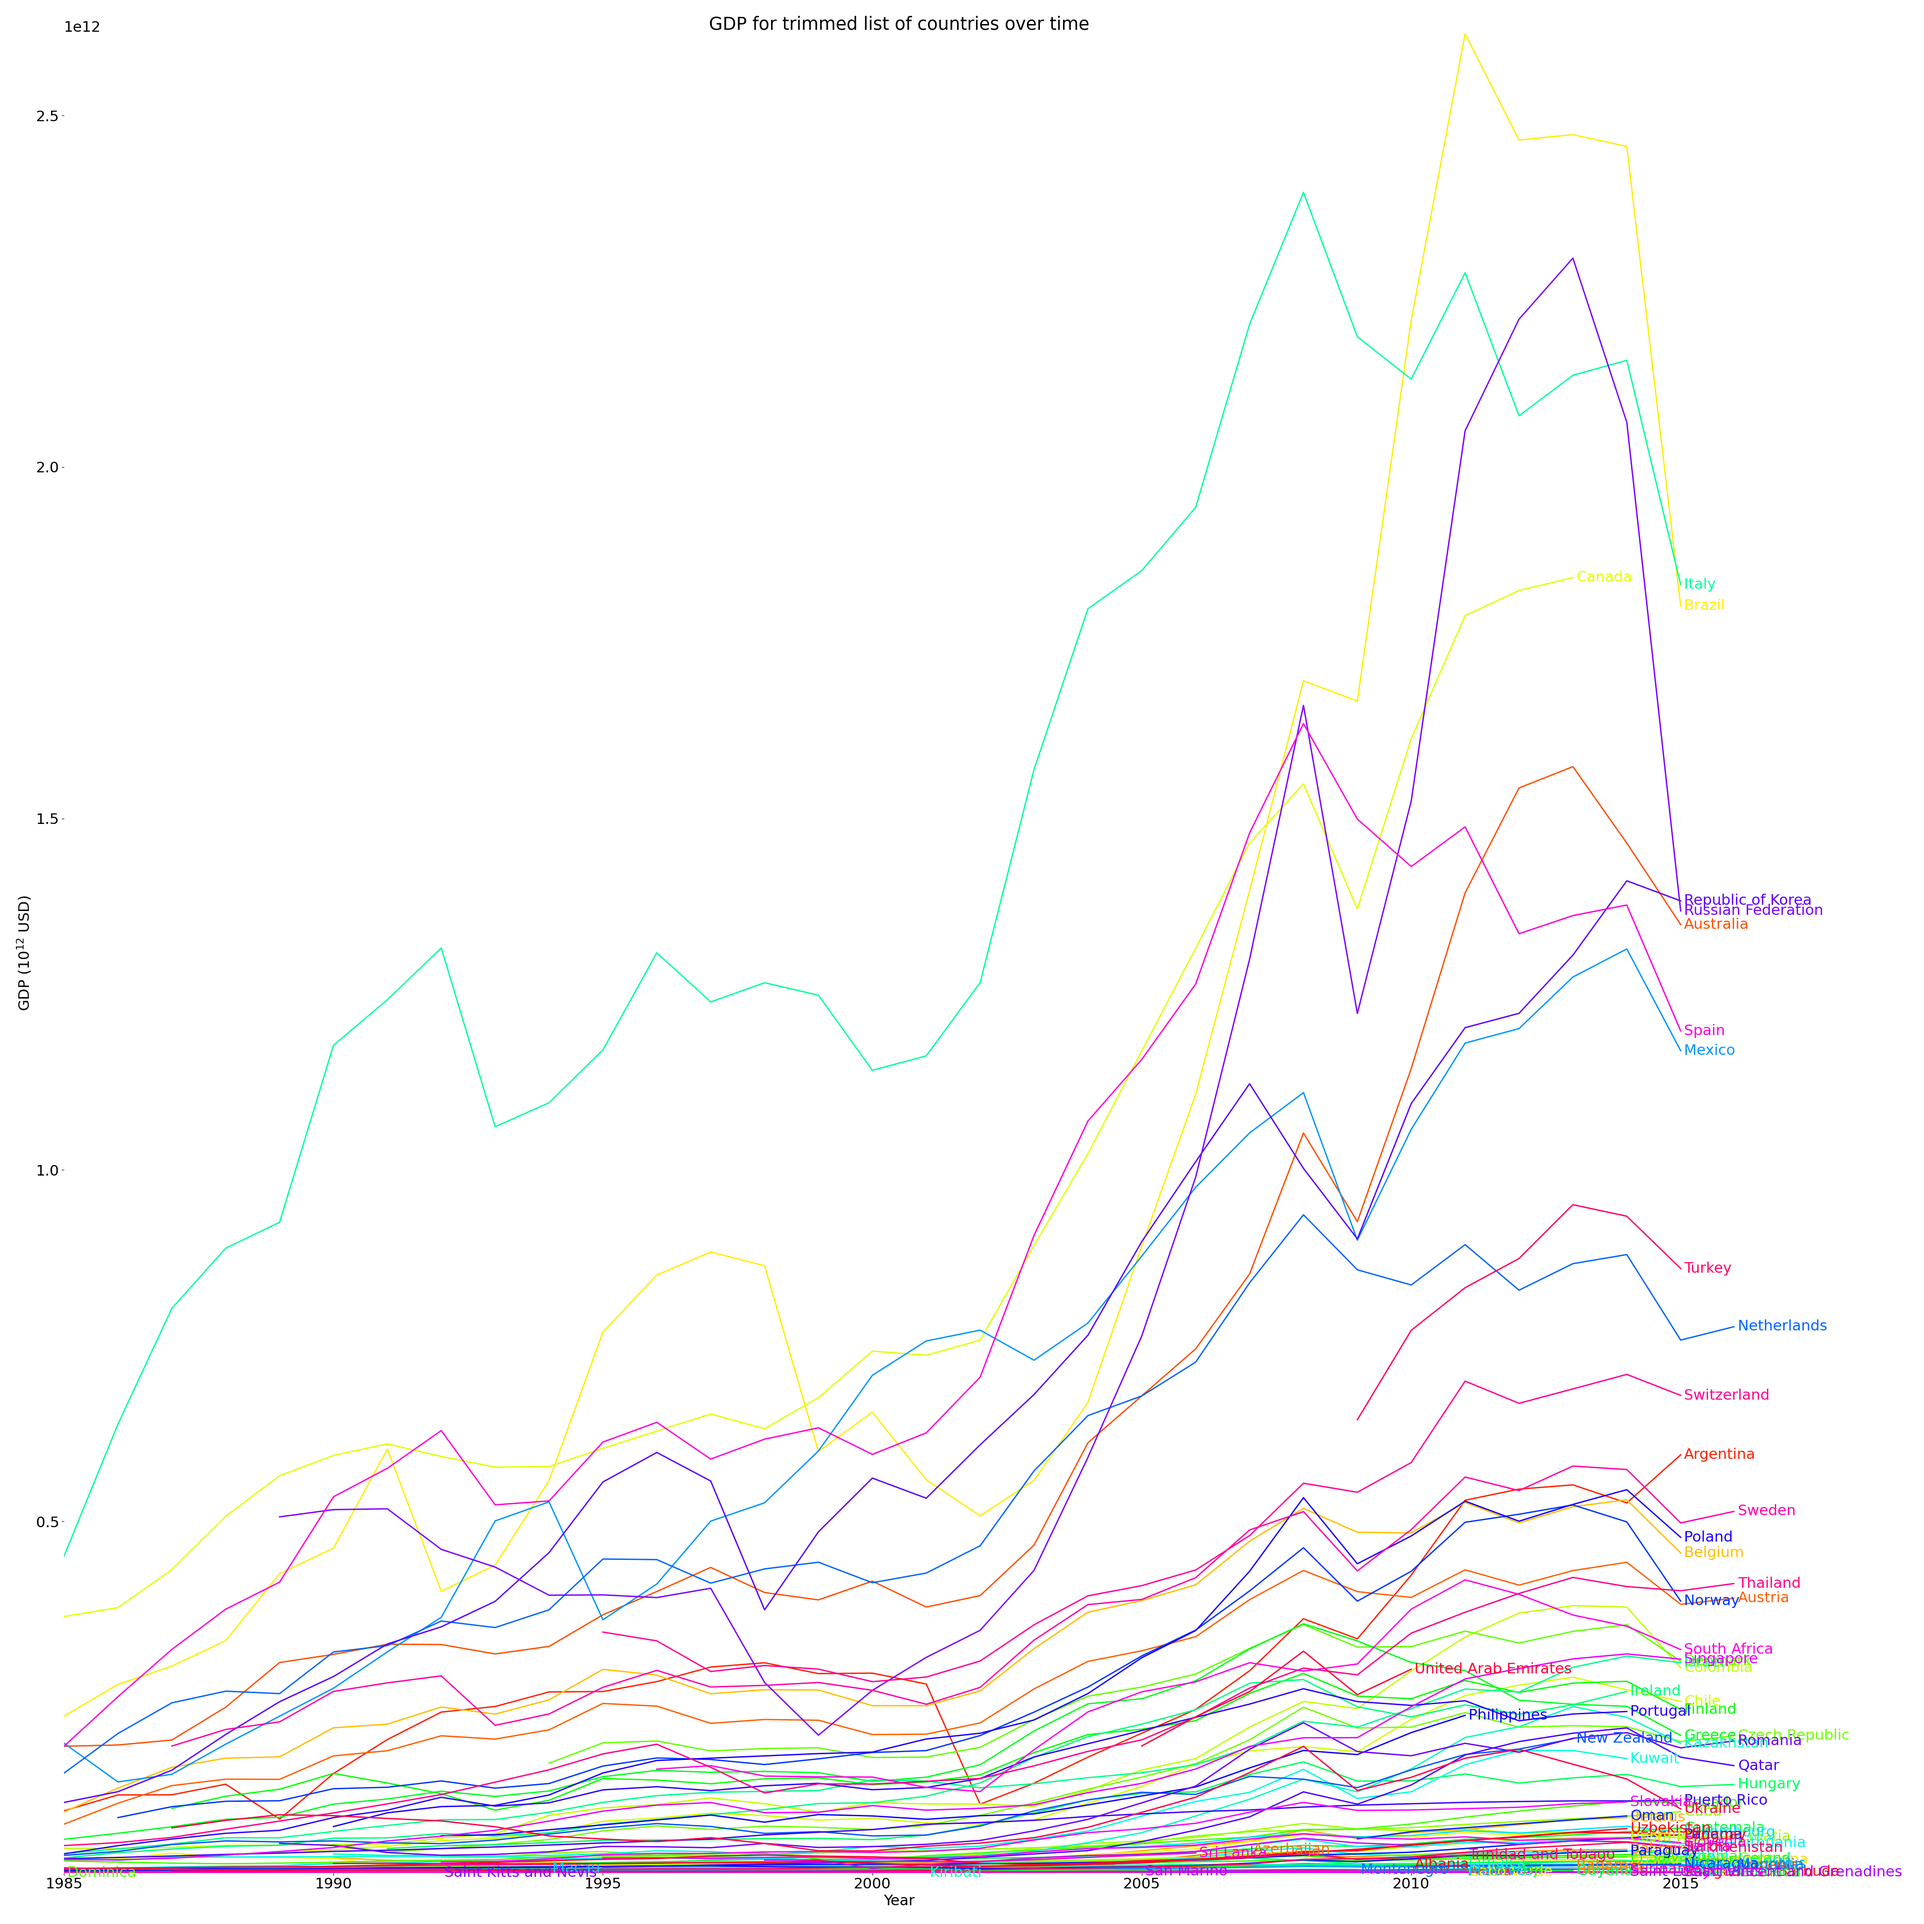
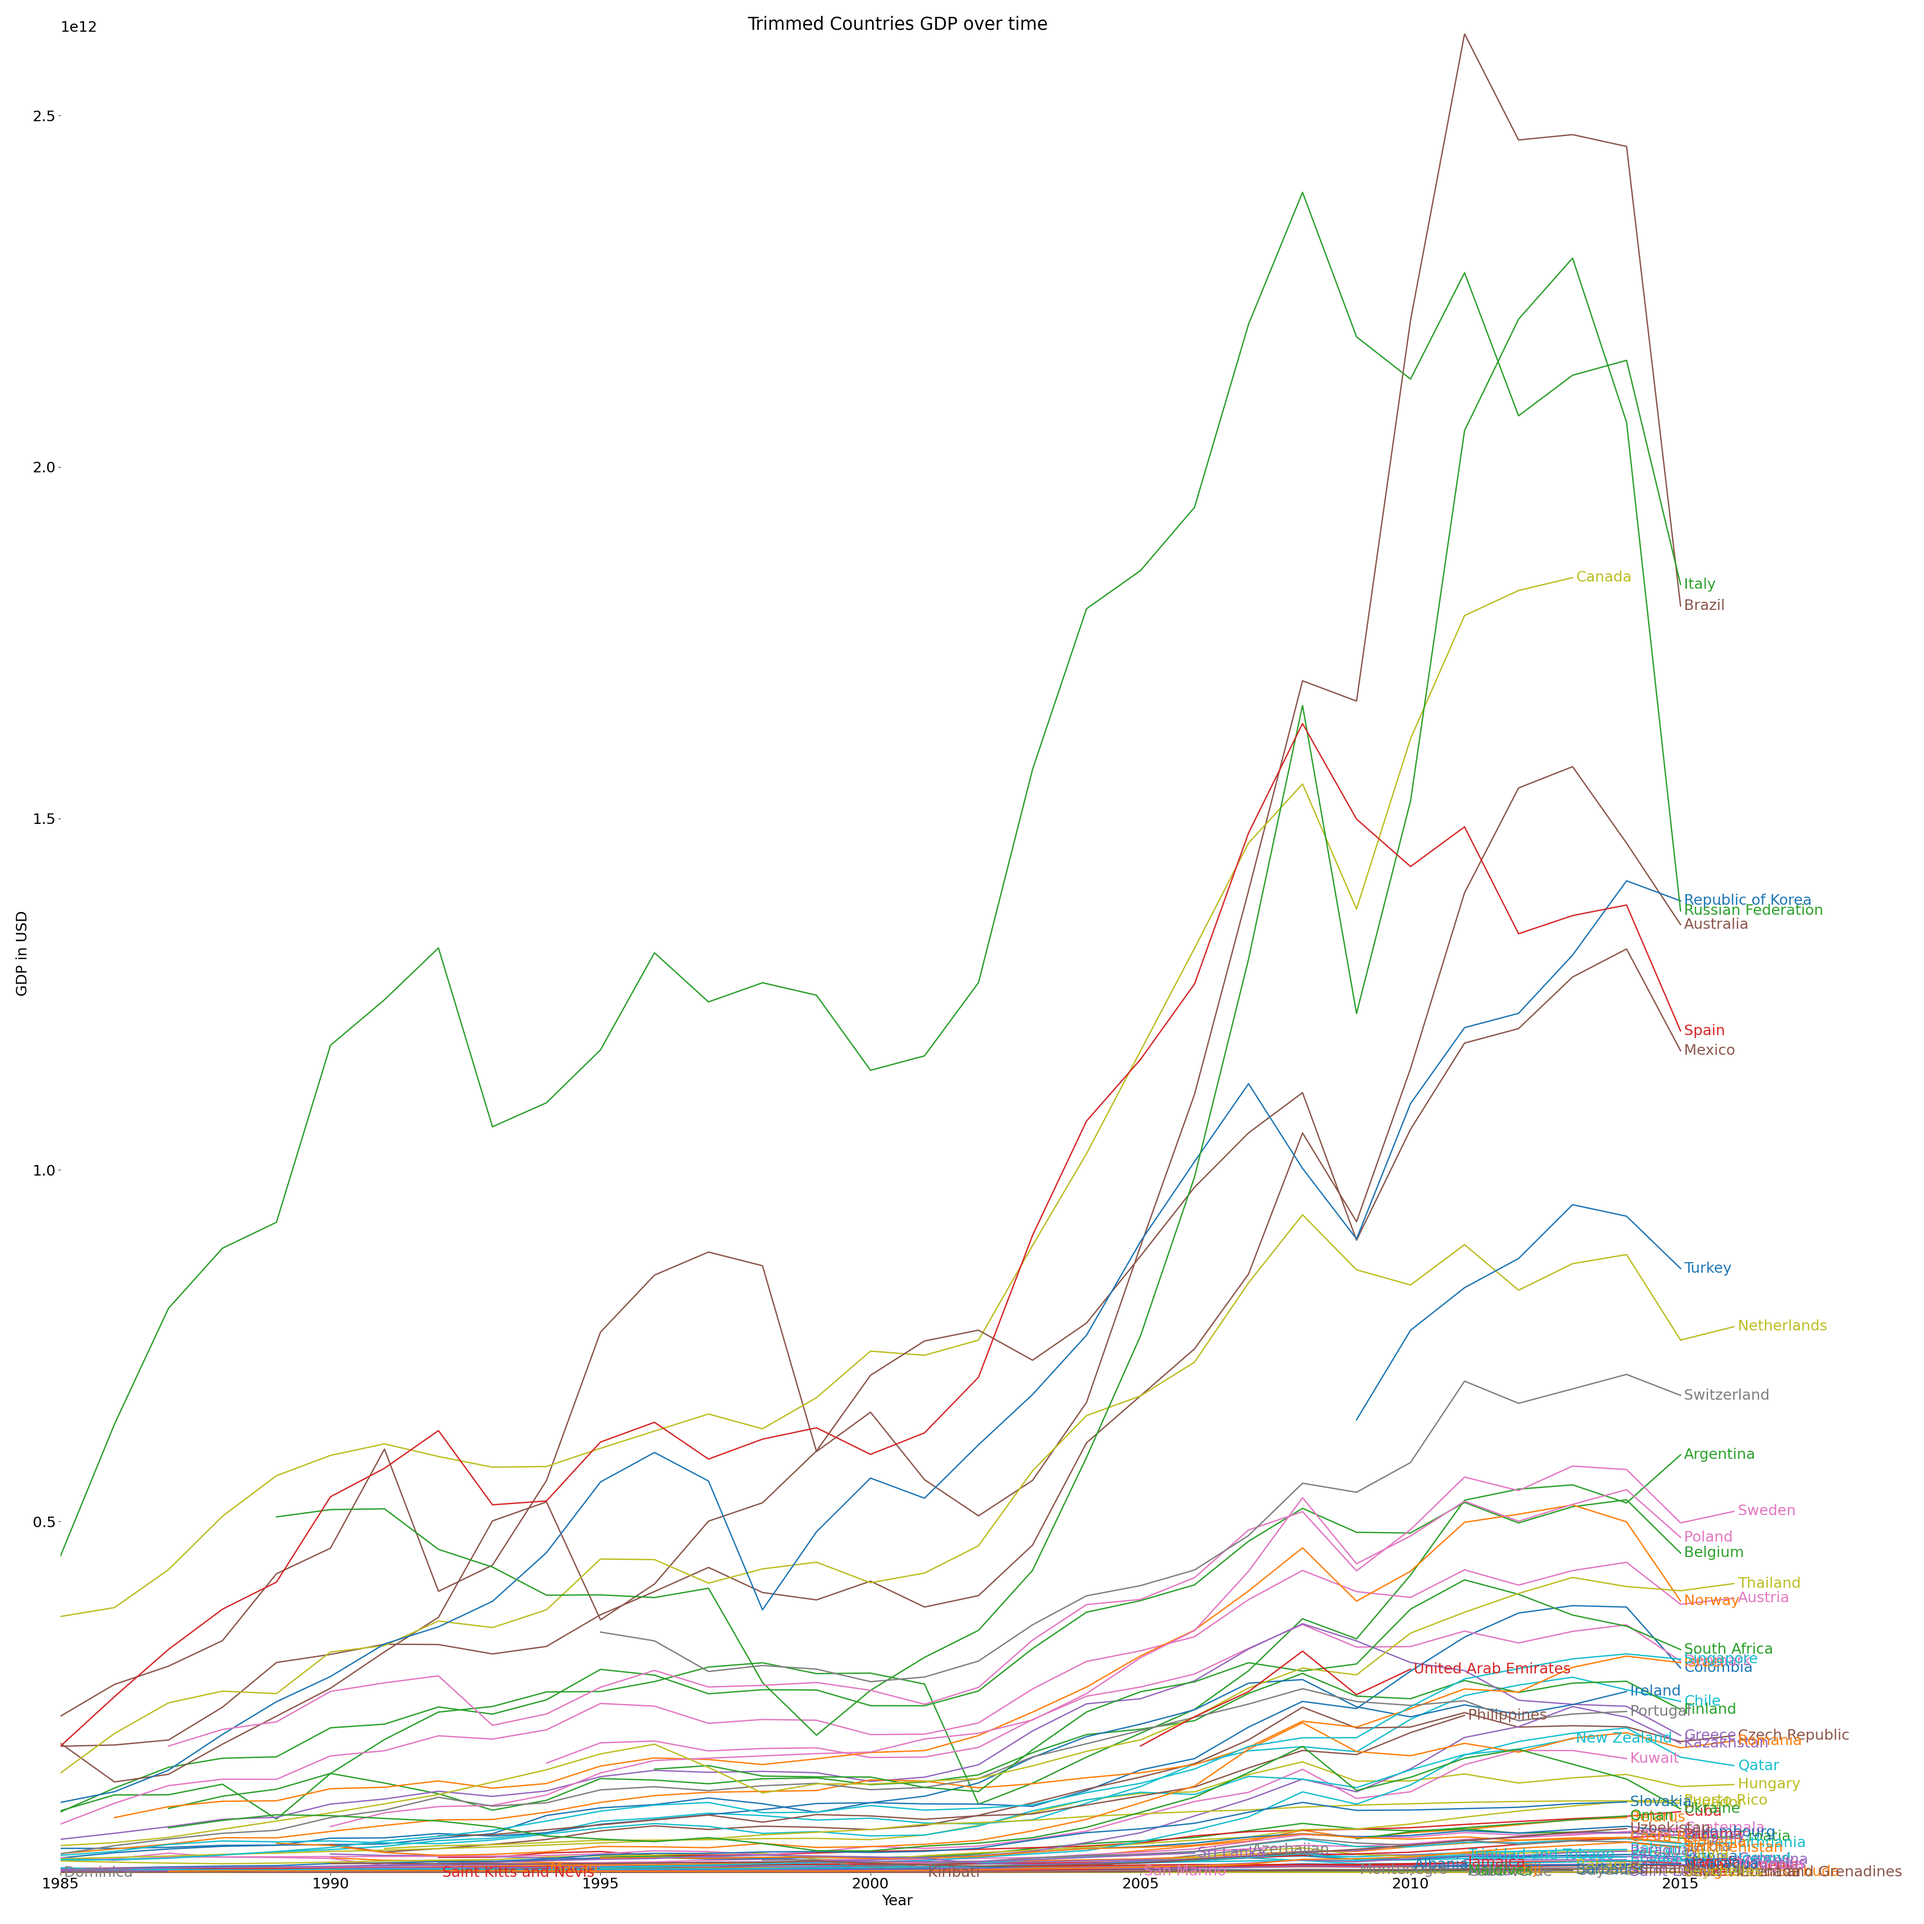
Clean up plotting code

diff --git a/suicides.py b/suicides.py
@@ -19,8 +19,10 @@ import pandas as pd
 import matplotlib.pyplot as plt
 import seaborn as sns
 import warnings
+from cycler import cycler
 
 warnings.filterwarnings("ignore")
+
 
 # Reading dataset
 train_file_path = "./input/master.csv"
@@ -55,28 +57,6 @@ DATA VISUALIZATION
 ******************
 '''
 
-
-# First, amount of data by country:
-plt.figure(figsize=(10,20))
-sns.countplot(y='country', data=dataset_df, alpha=0.7)
-plt.title("Amount of data by country")
-plt.ylabel("Country")
-plt.xlabel("Amount of data points")
-plt.tight_layout()
-plt.savefig("./output/data_by_country.png")
-print("Data by country plot complete.")
-
-# Now GDP by country
-
-def get_cmap(n, name='hsv'):
-    """Returns a function that maps each index 0, 1, ..., n-1 to a distinct RGB color. The keyword argument "name" must be a standard mp1 colormap name.
-
-    Args:
-        n (int): The number of indices to be used.
-        name (str, optional): The name od the mp1 colormap to be used. Defaults to 'hsv'.
-    """
-    return plt.cm.get_cmap(name, n)
-
 def improve_legend(ax=None):
     """Adds labels to the end of each line according to the legend.
 
@@ -103,52 +83,6 @@ def improve_legend(ax=None):
         )
     ax.legend().set_visible(False)
 
-country_gdp_years = dataset_df[["country", "year", "gdp_for_year"]].drop_duplicates()
-# print(country_gdp_years)
-plt.rcParams.update({'font.size': 22})
-plt.figure(figsize=(40,40))
-plt.ylim([min(country_gdp_years['gdp_for_year']), max(country_gdp_years['gdp_for_year'])])
-plt.xlim([min(country_gdp_years['year']), max(country_gdp_years['year'])])
-colormap = get_cmap(unique_countries)
-for i, country in enumerate(country_gdp_years['country'].drop_duplicates()):
-    select_country_data = country_gdp_years[country_gdp_years['country'] == country]
-    plt.plot(select_country_data['year'], select_country_data['gdp_for_year'], label=str(country), c=colormap(i), linewidth=2)
-# print(last_years)
-plt.legend()
-improve_legend()
-plt.xlabel("Year")
-plt.ylabel("GDP ($10^{13}$ USD)")
-plt.title("GDP for each country over time")
-plt.tight_layout()
-plt.savefig("./output/GDP_by_country.png")
-print("GDP by country plot complete.")
-
-# Redo of the above, but remove the top few countries to see the bottom end more clearly.
-trimmed_country_gdp_years = country_gdp_years[(country_gdp_years['country'] != 'United States') & 
-                                              (country_gdp_years['country'] != 'France') &
-                                              (country_gdp_years['country'] != 'United Kingdom') &
-                                              (country_gdp_years['country'] != 'Germany') &
-                                              (country_gdp_years['country'] != 'Japan')]
-# print("Is USA present in trimmed GDP data?: --> {}".format('United States' in trimmed_country_gdp_years['country']))
-
-plt.figure(figsize=(40,40))
-plt.ylim([min(trimmed_country_gdp_years['gdp_for_year']), max(trimmed_country_gdp_years['gdp_for_year'])])
-plt.xlim([min(trimmed_country_gdp_years['year']), max(trimmed_country_gdp_years['year'])])
-colormap = get_cmap(len(trimmed_country_gdp_years['country'].drop_duplicates()))
-for i, country in enumerate(trimmed_country_gdp_years['country'].drop_duplicates()):
-    trimmed_select_country_data = trimmed_country_gdp_years[trimmed_country_gdp_years['country'] == country]
-    plt.plot(trimmed_select_country_data['year'], trimmed_select_country_data['gdp_for_year'], label=str(country), c=colormap(i), linewidth=2)
-plt.legend()
-improve_legend()
-plt.xlabel("Year")
-plt.ylabel("GDP ($10^{12}$ USD)")
-plt.title("GDP for trimmed list of countries over time")
-plt.tight_layout()
-plt.savefig("./output/GDP_by_country_trimmed.png")
-print("Trimmed GDP by country plot complete.")
-
-# Now visualization of suicide rates (total no. of suicides / 100k pop) for each country:
-
 def calculate_avg_suicide(country_year):
     """Calculates the total number of suicides per 100k population for a given country in a given year.
 
@@ -163,12 +97,58 @@ def calculate_avg_suicide(country_year):
     cysubset = dataset_df[dataset_df['country-year'] == country_year]
     country = cysubset['country'].loc[cysubset.index[0]]
     year = cysubset['year'].loc[cysubset.index[0]]
-    avg = sum(cysubset['suicides/100k'])
+    avg = (sum(cysubset['suicides_no']) / sum(cysubset['population'])) * 100000
     return [country, year, avg]
-    
+
+def multiplot(dataset=dataset_df, x='', y='', z='', xlabel='', ylabel='', title='', figsize=(40,40), filename=''):
+    fig, ax = plt.subplots(figsize=figsize)
+    ax.set_ylim(min(dataset[y]), max(dataset[y]))
+    ax.set_xlim(min(dataset[x]), max(dataset[x]))
+    for i, w in enumerate(dataset[z].drop_duplicates()):
+        select_z = dataset[dataset[z] == w]
+        ax.plot(select_z[x], select_z[y], label=str(w), linewidth=2)
+    ax.legend()
+    improve_legend(ax=ax)
+    ax.set_xlabel(xlabel)
+    ax.set_ylabel(ylabel)
+    ax.set_title(title)
+    fig.tight_layout()
+    fig.savefig('./output/'+filename+'.png')
+
+
+
+# First, amount of data by country:
+plt.figure(figsize=(10,20))
+sns.countplot(y='country', data=dataset_df, alpha=0.7)
+plt.title("Amount of data by country")
+plt.ylabel("Country")
+plt.xlabel("Amount of data points")
+plt.tight_layout()
+plt.savefig("./output/data_by_country.png")
+print("Data by country plot complete.")
+
+plt.rcParams.update({'font.size': 22})
+
+# Now GDP by country
+
+country_gdp_years = dataset_df[["country", "year", "gdp_for_year"]].drop_duplicates()
+multiplot(country_gdp_years, 'year', 'gdp_for_year', 'country', 'Year', 'GDP in USD', 'GDP for each country over time', (40,40), 'GDP_by_country')
+print("GDP by country plot complete.")
+
+# Redo of the above, but remove the top few countries to see the bottom end more clearly.
+trimmed_country_gdp_years = country_gdp_years[(country_gdp_years['country'] != 'United States') & 
+                                              (country_gdp_years['country'] != 'France') &
+                                              (country_gdp_years['country'] != 'United Kingdom') &
+                                              (country_gdp_years['country'] != 'Germany') &
+                                              (country_gdp_years['country'] != 'Japan')]
+multiplot(trimmed_country_gdp_years, 'year', 'gdp_for_year', 'country', 'Year', 'GDP in USD', 'Trimmed Countries GDP over time', (40,40), 'GDP_by_country_trimmed')
+print("Trimmed GDP by country plot complete.")
+
+# Now visualization of suicide rates (total no. of suicides / 100k pop) for each country: 
 
 avg_suicides = []
 for country_year in dataset_df['country-year'].drop_duplicates():
     avg_suicides.append(calculate_avg_suicide(country_year))
 
 avg_suicides_df = pd.DataFrame(avg_suicides, columns=['country', 'year', 'suicides/100k'])
+print(avg_suicides_df[avg_suicides_df['country'] == 'United States'])
